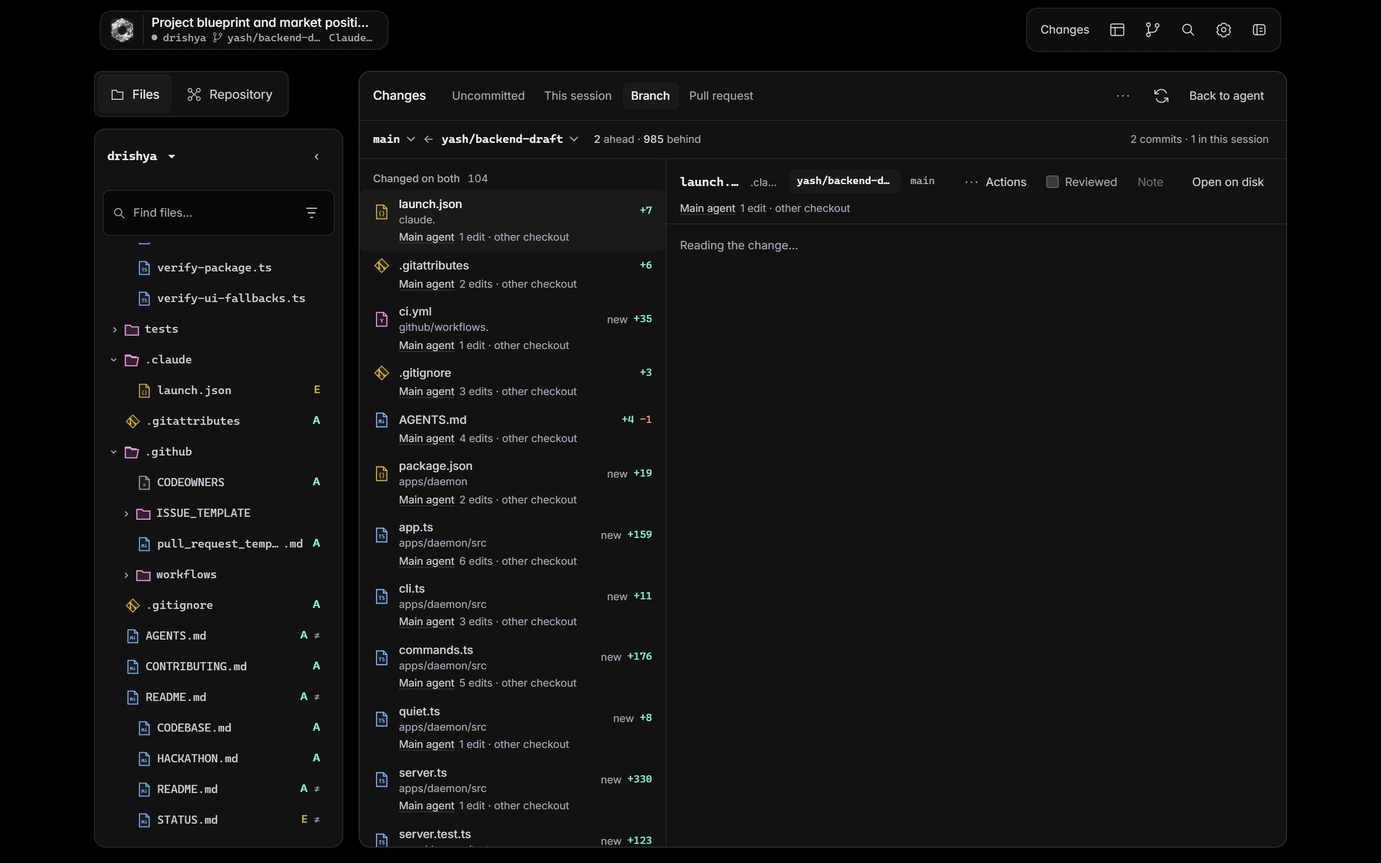
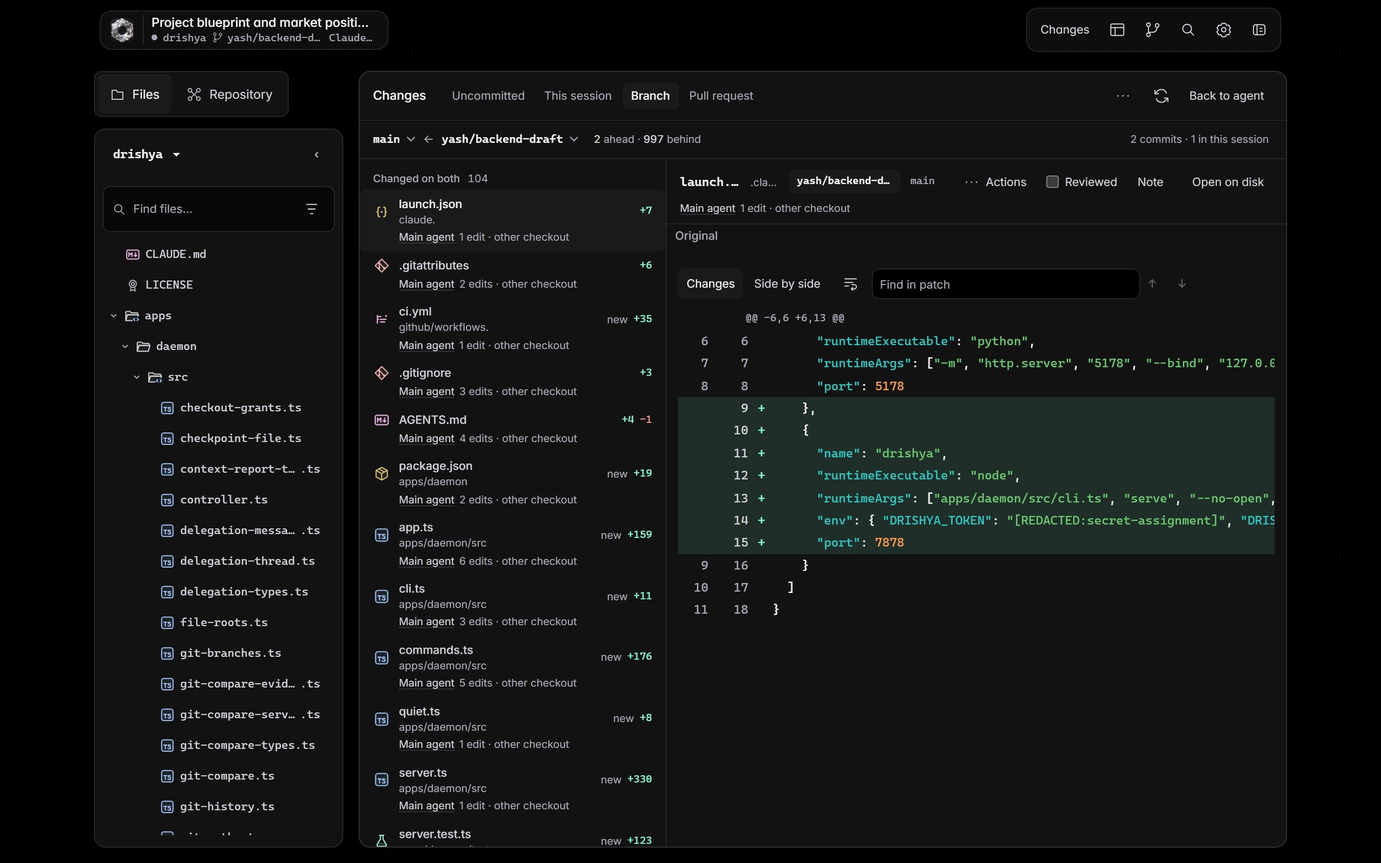
site: real feature sequences on the new UI, readable clicks, steady scroll, azure aurora (SITE-1)
- Footage recaptured on main after FILES-16b, UI-30, UI-31, UI-32b and FILES-17: files opened from the tree into the reader beside the agent's work (three tabs); a file's history before and after choosing an earlier edit (1 of 17, then 8 of 17); Changes with each picker open and its choice loaded (branch, then pull request #421); the Git graph then one branch; the Toolbox stepping through Edit; the prompt rail visible (Toolbox minimized) with a prompt that led to 41 actions.
- The footage script records where each real control was clicked; the site's cursor uses those positions, and a screen a click changes holds long enough to read.
- Scenes follow the scroll exactly (Lenis already smooths it; the extra scrub lag made them trail unevenly); the laptop tour takes 7 screens of scroll instead of 4; feature frames are decoded before the section arrives.
- Azure #4f9cff with cyan #34d6e6: a slow aurora at the top behind the constellation (paused once past the hero, still under reduced motion), replacing the periwinkle that read purple.

diff --git a/scripts/site-footage-real.ts b/scripts/site-footage-real.ts
@@ -1,12 +1,13 @@
 // SITE-1 real footage (Yash, 12 Nov): the feature window shows Drishya on a real Drishya session and this repository's
 // real Git history, captured as full screens. Frames go to .local/site-footage-real only; a builder reviews each frame
 // before any is copied into the site. Nothing is written to the real Drishya home: the store is a temporary folder.
+// Every click prints where it landed (as a fraction of the 1440x900 screen) so the site's cursor can click the same place.
 //   SITE_FOOTAGE_JOURNAL=<Claude Code journal> node scripts/site-footage-real.ts
-import {mkdirSync,mkdtempSync,rmSync} from 'node:fs';
+import {mkdirSync,mkdtempSync,rmSync,writeFileSync} from 'node:fs';
 import {tmpdir} from 'node:os';
 import {join,resolve,sep} from 'node:path';
 import {fileURLToPath} from 'node:url';
-import {chromium,type Page} from '@playwright/test';
+import {chromium,type Locator,type Page} from '@playwright/test';
 import {App} from '../apps/daemon/src/app.ts';
 import {startServer} from '../apps/daemon/src/server.ts';
 
@@ -18,71 +19,107 @@ const app=new App(join(dir,'store'));
 const id=(await app.ingest.importSource('claude-code',journal)).recordingId;
 const server=await startServer({app,port:0,token:'site-footage-real'});
 const browser=await chromium.launch({channel:process.env.DRISHYA_BROWSER_CHANNEL??'msedge'});
-const page:Page=await (await browser.newContext({viewport:{width:1440,height:900},deviceScaleFactor:2,colorScheme:'dark'})).newPage();
+const W=1440,H=900;
+const page:Page=await (await browser.newContext({viewport:{width:W,height:H},deviceScaleFactor:2,colorScheme:'dark'})).newPage();
 await page.route('**/v1/working-locations',r=>r.request().method()==='GET'?r.fulfill({json:{version:1,sessions:[]}}):r.fulfill({json:{saved:true,revisions:{}}}));
-const shots:string[]=[];
+const shots:string[]=[],clicks:Record<string,[number,number]>={};
 const wait=(ms:number)=>page.waitForTimeout(ms);
-async function shot(name:string,settle=700){await page.mouse.move(-10,-10).catch(()=>{});await wait(settle);await page.screenshot({path:join(out,`${name}.jpg`),type:'jpeg',quality:88});shots.push(name);console.log('captured',name);}
-async function shotHover(name:string){await wait(800);await page.screenshot({path:join(out,`${name}.jpg`),type:'jpeg',quality:88});shots.push(name);console.log('captured',name);}
-const visible=(l:ReturnType<Page['locator']>)=>l.isVisible().catch(()=>false);
-async function approve(){for(const name of ['Approve workspace reading','Approve read-only Git','Approve current-file reading']){const b=page.getByRole('button',{name,exact:true}).first();if(await visible(b)){await b.click();await wait(500);}}const e=page.getByText('Enable workspace reading',{exact:true}).first();if(await visible(e)){await e.click();await wait(800);}}
+async function shot(name:string,settle=700){await page.mouse.move(-10,-10).catch(()=>{});await wait(settle);await page.screenshot({path:join(out,`${name}.jpg`),type:'jpeg',quality:90});shots.push(name);console.log('captured',name);}
+async function shotHover(name:string){await wait(800);await page.screenshot({path:join(out,`${name}.jpg`),type:'jpeg',quality:90});shots.push(name);console.log('captured',name);}
+const visible=(l:Locator)=>l.isVisible().catch(()=>false);
+// Click a control and record where it is, for the site's cursor.
+async function click(name:string,l:Locator){const b=await l.boundingBox();if(b)clicks[name]=[+((b.x+b.width/2)/W).toFixed(3),+((b.y+b.height/2)/H).toFixed(3)];await l.click({timeout:8000}).catch(()=>console.log('click failed:',name));}
+async function approve(){for(const name of ['Approve workspace reading','Approve read-only Git','Approve current-file reading']){const b=page.getByRole('button',{name,exact:true}).first();if(await visible(b)){await b.click();await wait(600);}}const e=page.locator('button.workspace-grant').first();if(await visible(e)){await e.click();await wait(1500);for(const name of ['Approve workspace reading','Approve current-file reading']){const b=page.getByRole('button',{name,exact:true}).first();if(await visible(b)){await b.click();await wait(800);}}}}
 async function open(){await page.goto(server.launchUrl);await page.locator('.home').waitFor();await page.goto(`${server.url}/?experience=modern#/r/${id}`);await page.locator('.history').waitFor();await wait(2500);}
 async function goToPrompt(index:number){const tag=await page.addStyleTag({content:'.toolbox-rail,.toolbox-rail *{pointer-events:none!important}'});const t=page.locator('.prompt-rail-tick').nth(index);if(await t.count()){await t.click({force:true}).catch(()=>{});await wait(2200);}await tag.evaluate(el=>el.remove());}
-async function scrollHistory(fraction:number){await page.evaluate(f=>{const h=document.querySelector('.history');if(h)h.scrollTop=(h.scrollHeight-h.clientHeight)*f;},fraction);await wait(1200);}
-// Files the session edited, in tree order, read from the tree's own marks.
-async function editedFiles(){return page.evaluate(()=>[...document.querySelectorAll<HTMLElement>('[data-tree-path]')].filter(r=>!r.hasAttribute('aria-expanded')&&[...r.querySelectorAll('*')].some(n=>n.childElementCount===0&&/^E$/.test((n.textContent??'').trim()))).map(r=>r.dataset.treePath!).slice(0,6));}
+// Wait until a Changes view has finished reading.
+async function loaded(){await page.locator('.compare-note[role=status]').filter({hasText:/Reading/}).first().waitFor({state:'hidden',timeout:30000}).catch(()=>console.log('changes: still reading'));await wait(900);}
+async function graphLoaded(){await page.getByText('Reading local history',{exact:false}).first().waitFor({state:'hidden',timeout:20000}).catch(()=>{});for(let i=0;i<3;i++){const retry=page.getByRole('button',{name:'Retry history'}).first();if(!(await visible(retry)))break;await retry.click();await wait(3000);}await wait(1200);}
+// Files the session edited or added, in tree order, read from the tree's own marks.
+async function editedFiles(){return page.evaluate(()=>[...document.querySelectorAll<HTMLElement>('[data-tree-path]')].filter(r=>!r.hasAttribute('aria-expanded')&&[...r.querySelectorAll('*')].some(n=>n.childElementCount===0&&/^[EA]$/.test((n.textContent??'').trim()))).map(r=>r.dataset.treePath!));}
+const expandTree=()=>page.evaluate(()=>{for(const r of document.querySelectorAll<HTMLElement>('[data-tree-path][aria-expanded="false"]'))r.click();});
 
 try{
-  await open();await approve();
-  await goToPrompt(4);await shot('r-history');
-  // Explorer: expand to the edited files, open one beside the work, then step to an earlier edit, then a second file.
-  await page.evaluate(()=>{for(const r of document.querySelectorAll<HTMLElement>('[data-tree-path][aria-expanded="false"]'))r.click();});await wait(900);
-  const edited=await editedFiles();console.log('edited files in tree:',edited.length);
-  await shot('r-explorer');
-  if(edited[0]){
-    const row=page.locator(`[data-tree-path="${edited[0]}"]`).first();await row.hover();await shotHover('r-explorer-hover');
-    await row.click();await wait(1500);await approve();await shot('r-peek');
-    const edit=page.locator('.file-evidence-reading, [aria-label="File history"]').getByText(/^Edit\b/).first();
-    if(await visible(edit)){await edit.click();await wait(1200);await shot('r-peek-edit');}
-    if(edited[1]){await page.keyboard.press('Escape');await wait(400);const second=page.locator(`[data-tree-path="${edited[1]}"]`).first();if(await visible(second)){await second.click();await wait(1500);await shot('r-peek-2');}}
-    await page.keyboard.press('Escape');await wait(500);
-  }
-  // Workspace with two of the edited files open as tabs.
-  await page.getByRole('button',{name:'Open developer workspace',exact:true}).click().catch(()=>{});await approve();await wait(900);
-  for(const path of edited.slice(0,2)){const find=page.getByRole('textbox',{name:'Find repository files',exact:true});if(await visible(find)){await find.fill(path);await page.locator(`[data-spine-path="${path}"]`).first().click().catch(()=>{});await wait(900);}}
-  await shot('r-workspace');await page.keyboard.press('Escape');await wait(500);
-  // Changes: each view of the same repository.
-  await page.getByRole('button',{name:'Changes',exact:true}).first().click().catch(()=>{});await approve();await wait(1200);
-  for(const [tab,name] of [['This session','r-changes-session'],['Branch','r-changes-branch'],['Pull request','r-changes-pr']] as const){
-    const b=page.getByRole('button',{name:tab,exact:true}).first();if(!(await visible(b)))continue;await b.click();await wait(1800);
-    if(tab==='Pull request'){const enable=page.getByRole('button',{name:/GitHub|Enable|Allow/i}).first();if(await visible(enable)){await enable.click();await wait(3000);}const picker=page.getByText('Choose a pull request',{exact:false}).first();if(await visible(picker)){await picker.click();await wait(1500);const option=page.getByRole('option').first().or(page.locator('[role=menu] button, [role=listbox] [role=option]').first());if(await visible(option)){await option.click();await wait(4000);}else console.log('pull request: no options listed');}}
-    await shot(name,600);
-  }
-  await page.keyboard.press('Escape');await wait(500);
-  // Git graph: the whole history, then one branch chosen.
-  await page.getByRole('button',{name:'Git',exact:true}).first().click().catch(()=>{});await approve();
-  await page.getByText('Reading local history',{exact:false}).first().waitFor({state:'hidden',timeout:20000}).catch(()=>{});
-  for(let i=0;i<3;i++){const retry=page.getByRole('button',{name:'Retry history'}).first();if(!(await visible(retry)))break;await retry.click();await wait(3000);}
-  await wait(1200);await shot('r-graph');
-  // The branch picker in the graph's own header: read one agent branch instead of all local history.
-  const pick=page.getByRole('combobox',{name:'Read local Git branch'}).first();let picked=false;
-  if(await visible(pick)){const labels=await pick.locator('option').allTextContents();console.log('graph branches:',labels.length);
-    const want=labels.find(l=>/^claude\/site-1/.test(l))??labels.find(l=>/^(gemini|codex|claude)\//.test(l));
-    if(want){await pick.selectOption({label:want});picked=true;}}
-  if(picked){await page.getByText('Reading local history',{exact:false}).first().waitFor({state:'hidden',timeout:20000}).catch(()=>{});for(let i=0;i<3;i++){const retry=page.getByRole('button',{name:'Retry history'}).first();if(!(await visible(retry)))break;await retry.click();await wait(3000);}await wait(1500);await shot('r-graph-branch');}else console.log('graph: no branch row');
-  await page.keyboard.press('Escape');await wait(600);
-  // Toolbox: one tool chosen, then the next use of it.
-  await open();await goToPrompt(4);
-  const tool=page.getByRole('button',{name:/^Edit\b/}).last();
-  if(await visible(tool)){await tool.click();await wait(1500);await shot('r-tool');const next=page.getByRole('button',{name:/^Next/}).first();if(await visible(next)){await next.click();await wait(1500);await shot('r-tool-next');}await page.keyboard.press('Escape');await wait(500);}
-  // Prompt rail: hover a later prompt.
+  await open();await approve();await wait(800);await approve();
   const ticks=page.locator('.prompt-rail-tick');const n=await ticks.count();console.log('prompt ticks:',n);
-  if(n){await page.addStyleTag({content:'.toolbox-rail,.toolbox-rail *{pointer-events:none!important}'});for(const [k,i] of [['a',2],['b',5],['c',11]] as const){const t=ticks.nth(Math.min(n-1,i));const box=await t.boundingBox();if(box){await page.mouse.move(box.x+box.width/2,box.y+box.height/2,{steps:6});await shotHover(`r-prompt-${k}`);await page.mouse.move(10,10);await wait(500);}}}
-  // Composer: a follow-up typed, not sent.
+  await goToPrompt(Math.min(Number(process.env.SITE_FOOTAGE_PROMPT??1),Math.max(0,n-1)));
+  // 1. Files: the tree beside the agent's work, with files opened from it in the reader beside the history (tabs).
+  // Files on disk in the session's own checkout open in the reader beside the history, one tab each. The tree renders
+  // only the rows near the view, so each folder is opened in turn and each file scrolled to before it is clicked.
+  const find=page.getByPlaceholder(/Find files/i).first();
+  async function expand(path:string){const row=page.locator(`[data-tree-path="${path}"]`).first();if(await visible(row)){await row.scrollIntoViewIfNeeded();if(await row.getAttribute('aria-expanded')==='false'){await row.click();await wait(2000);}}}
+  const opened:string[]=[];
+  for(const p of ['apps','apps/daemon','apps/daemon/src'])await expand(p);
+  const rendered=await page.evaluate(()=>[...document.querySelectorAll<HTMLElement>('[data-tree-path^="apps/daemon/src/"]')].map(r=>r.dataset.treePath!).filter(x=>x.endsWith('.ts')));
+  const wanted=[...['controller.ts','delegation-thread.ts','checkout-grants.ts'].map(n=>`apps/daemon/src/${n}`).filter(x=>rendered.includes(x)),...rendered].filter((x,i,a)=>a.indexOf(x)===i).slice(0,3);
+  for(const want of wanted){
+    if(await visible(page.locator('dialog.file-workspace'))){await page.keyboard.press('Escape');await wait(500);}
+    const row=page.locator(`[data-tree-path="${want}"]`).first();
+    if(await visible(row)){await row.scrollIntoViewIfNeeded();if(opened.length<2){const b=await row.boundingBox();if(b)clicks[`explorer-open-${opened.length}`]=[+((b.x+b.width/2)/W).toFixed(3),+((b.y+b.height/2)/H).toFixed(3)];await row.dblclick({timeout:8000}).catch(()=>console.log('dblclick failed'));}else await click(`explorer-open-${opened.length}`,row);opened.push(want);await wait(1600);await approve();}
+  }
+  console.log('files opened:',opened.length);
+  await shot('r-explorer');
+  // 2. A file's history: the file the agent edited most, then another edit chosen and its change shown.
+  if(await visible(find)){await find.fill('STATUS.md');await wait(1000);}
+  // Open each STATUS.md's history, keep the one with the most actions, and reopen it.
+  async function openHistory(path:string){const row=page.locator(`[data-tree-path="${path}"]`).first();if(!(await visible(row)))return 0;await row.click();await wait(1500);
+    const work=page.getByRole('button',{name:'Agent work on this file'}).first();if(await visible(work)){await work.click();await wait(1500);}
+    const text=await page.locator('dialog.file-workspace').first().innerText().catch(()=>'');return (text.match(/\n(Edit|Write|Read)\n/g)??[]).length;}
+  {const paths=await page.evaluate(()=>[...document.querySelectorAll<HTMLElement>('[data-tree-path$="STATUS.md"]')].map(r=>r.dataset.treePath!));
+   let best='',most=0;for(const path of paths){const n=await openHistory(path);if(n>most){most=n;best=path;}await page.keyboard.press('Escape');await wait(600);}
+   console.log('history actions on the chosen file:',most);if(best)await openHistory(best);}
+  if(await visible(page.locator('dialog.file-workspace'))){
+    await shot('r-history-a');
+    const rows=page.locator('dialog.file-workspace').first().getByText('Edit',{exact:true});
+    const count=await rows.count();console.log('history edit rows:',count);
+    if(count>3){await click('history-step',rows.nth(Math.min(count-1,6)));await wait(1500);await shot('r-history-b');}
+    await page.keyboard.press('Escape');await wait(600);
+  } else console.log('history: no file history opened');
+  if(await visible(find)){await find.fill('');await wait(600);}
+  // 3. Workspace with two of the edited files open as tabs.
+  await page.getByRole('button',{name:'Open developer workspace',exact:true}).click().catch(()=>{});await approve();await wait(900);
+  for(const path of opened.slice(0,2)){const search=page.getByRole('textbox',{name:'Find repository files',exact:true});if(await visible(search)){await search.fill(path);await page.locator(`[data-spine-path$="${path}"]`).first().click().catch(()=>{});await wait(900);}}
+  await shot('r-workspace');await page.keyboard.press('Escape');await wait(600);
+  // 4. Changes: this session; the branch against main, its picker, another branch chosen; a pull request chosen.
+  await page.getByRole('button',{name:'Changes',exact:true}).first().click().catch(()=>{});await approve();await wait(1200);
+  const tab=(name:string)=>page.getByRole('button',{name,exact:true}).first();
+  if(await visible(tab('This session'))){await click('changes-session',tab('This session'));await loaded();await shot('r-changes-session');}
+  if(await visible(tab('Branch'))){
+    await click('changes-branch',tab('Branch'));await loaded();await shot('r-changes-branch');
+    const head=page.locator('.compare-side').nth(1);
+    if(await visible(head)){await click('changes-branch-picker',head);await wait(900);await shotHover('r-changes-branch-pick');
+      const option=page.getByRole('listbox').getByRole('button').filter({hasText:/^gemini\/files-17|^gemini\/ui-31|^claude\/site-1/}).first();
+      if(await visible(option)){await click('changes-branch-choose',option);await loaded();await shot('r-changes-branch-picked');}else{console.log('branch: no option');await page.keyboard.press('Escape');}}
+  }
+  if(await visible(tab('Pull request'))){
+    await click('changes-pr',tab('Pull request'));await wait(1500);
+    const allow=page.getByRole('button',{name:'Allow GitHub lookups'}).first();if(await visible(allow)){await allow.click();await wait(4000);}
+    const picker=page.locator('.compare-side').filter({hasText:/Choose a pull request|^#\d+/}).first();
+    if(await visible(picker)){await click('changes-pr-picker',picker);await wait(900);await shotHover('r-changes-pr-pick');
+      const option=page.getByRole('listbox',{name:'Open pull requests'}).getByRole('button').filter({hasText:/^#421\b/}).first();
+      const chosen=await visible(option)?option:page.getByRole('listbox',{name:'Open pull requests'}).getByRole('button').first();
+      if(await visible(chosen)){await click('changes-pr-choose',chosen);await loaded();await shot('r-changes-pr');}else console.log('pull request: no options listed');}
+  }
+  await page.keyboard.press('Escape');await wait(600);
+  // 5. Git graph: the whole history, then one branch chosen from the graph's own list.
+  await page.getByRole('button',{name:'Git',exact:true}).first().click().catch(()=>{});await approve();await graphLoaded();await shot('r-graph');
+  const ref=page.locator('.atlas-ref').filter({hasText:/^\W*claude\/site-1/}).first();
+  if(await visible(ref)){await click('graph-branch',ref);await graphLoaded();await shot('r-graph-branch');}else console.log('graph: no branch row');
+  await page.keyboard.press('Escape');await wait(600);
+  // 6. Toolbox: one tool chosen, then the next use of it.
+  await open();await goToPrompt(Math.min(Number(process.env.SITE_FOOTAGE_PROMPT??1),Math.max(0,n-1)));
+  const tool=page.getByRole('button',{name:/^Edit\b/}).last();
+  if(await visible(tool)){await click('tool',tool);await wait(1500);await shot('r-tool');const next=page.getByRole('button',{name:/^Next/}).first();if(await visible(next)){await click('tool-next',next);await wait(1500);await shot('r-tool-next');}await page.keyboard.press('Escape');await wait(500);}
+  // 7. Prompt rail: hover three prompts to choose one that reads well (the Toolbox's focus cleared first).
+  {const clear=page.getByText('Clear focus',{exact:false}).first();if(await visible(clear)){await clear.click();await wait(700);}const min=page.getByRole('button',{name:'Minimize toolbox'}).first();if(await visible(min)){await min.click();await wait(900);}}
+  if(n){const tag=await page.addStyleTag({content:'.toolbox-rail,.toolbox-rail *{pointer-events:none!important}'});for(const [k,f] of [['a',.12],['b',.3],['c',.45],['d',.6],['e',.75],['f',.9]] as const){const t=ticks.nth(Math.min(n-1,Math.floor(n*f)));const box=await t.boundingBox();if(box){clicks[`prompt-${k}`]=[+((box.x+box.width/2)/W).toFixed(3),+((box.y+box.height/2)/H).toFixed(3)];await page.mouse.move(box.x+box.width/2,box.y+box.height/2,{steps:6});await shotHover(`r-prompt-${k}`);await page.mouse.move(10,10);await wait(500);}}await tag.evaluate(el=>el.remove());}
+  // 8. Composer: a follow-up typed, not sent.
   const ask=page.getByText('Ask your agent',{exact:false}).first();
-  if(await visible(ask)){await ask.click();await wait(900);const box=page.getByRole('textbox',{name:'Prompt for selected harness session'}).first();if(await visible(box))await box.fill('Add a browser spec for the new picker and run it at 600 and 1440.');await wait(500);await shot('r-composer',200);}
+  if(await visible(ask)){await click('composer',ask);await wait(900);const box=page.getByRole('textbox',{name:'Prompt for selected harness session'}).first();if(await visible(box))await box.fill('Add a browser spec for the hover cards and run it at 600 and 1440.');await wait(500);await shot('r-composer',200);}
 }finally{
+  writeFileSync(join(out,'clicks.json'),JSON.stringify(clicks,null,1));
   await browser.close();await server.close();await app.close();
   if(!resolve(dir).startsWith(resolve(tmpdir())+sep))throw Error('Unsafe temporary folder');rmSync(dir,{recursive:true,force:true});
 }
 console.log(`Real footage: ${shots.length} frames in ${out} (review before publishing).`);
+console.log(JSON.stringify(clicks));

diff --git a/apps/site/src/main.ts b/apps/site/src/main.ts
@@ -114,11 +114,11 @@ function animate() {
 
     const words = new SplitText('[data-words]', { type: 'words' });
     gsap.set(words.words, { opacity: 0.14 });
-    gsap.timeline({ scrollTrigger: { trigger: '.why', start: 'top top', end: '+=140%', pin: '.why-pin', scrub: 0.6 } })
+    gsap.timeline({ scrollTrigger: { trigger: '.why', start: 'top top', end: '+=140%', pin: '.why-pin', scrub: true } })
       .to(words.words, { opacity: 1, stagger: 0.05, ease: 'none' }, 0)
       .to('[data-why-lines]', { yPercent: -55, ease: 'none', duration: words.words.length * 0.05 }, 0);
     gsap.to('.backdrop .hero-map, .backdrop .hero-labels', { opacity: 0.38, ease: 'none', scrollTrigger: { trigger: '.why', start: 'top bottom', end: 'top top', scrub: true } });
-    ScrollTrigger.create({ trigger: '.why', start: 'bottom top', onEnter: () => heroMap.pause(), onLeaveBack: () => heroMap.resume() });
+    ScrollTrigger.create({ trigger: '.why', start: 'bottom top', onEnter: () => { heroMap.pause(); $('.aurora').classList.add('rest'); }, onLeaveBack: () => { heroMap.resume(); $('.aurora').classList.remove('rest'); } });
     gsap.to('.glow', { opacity: 0.45, ease: 'none', scrollTrigger: { trigger: '.why', start: 'top bottom', end: 'top top', scrub: true } });
 
     for (const h of $$('[data-split]').filter(h => h.id !== 'hero-title')) {
@@ -136,26 +136,29 @@ function animate() {
   // Frames are real Drishya on a real Drishya session (scripts/site-footage-real.ts, reviewed before publishing).
   type Frame = { img: string; click?: [number, number]; zoom?: [number, number, number, number] };
   const FEATURES: Frame[][] = [
-    [{ img: 'explorer' }],
-    [{ img: 'file-history', zoom: [0, .12, .5, .6], click: [.04, .52] }, { img: 'file-history' }],
+    // Click positions are where the real control was on screen, measured by the footage script.
+    [{ img: 'explorer', click: [.155, .472] }],
+    [{ img: 'history-a' }, { img: 'history-b', click: [.032, .587] }],
     [{ img: 'workspace' }],
-    [{ img: 'changes-session', click: [.418, .108] }, { img: 'changes-branch', click: [.471, .108] }, { img: 'changes-pr', click: [.524, .108] }],
-    [{ img: 'git-graph' }, { img: 'git-graph-branch', click: [.148, .456] }],
-    [{ img: 'tool', zoom: [.66, .3, .34, .42], click: [.875, .464] }, { img: 'tool-next' }],
-    [{ img: 'prompt', click: [.838, .8] }],
-    [{ img: 'composer', click: [.683, .9] }],
+    [{ img: 'changes-session', click: [.419, .111] }, { img: 'changes-branch', click: [.472, .111] }, { img: 'changes-branch-pick', click: [.369, .161] },
+     { img: 'changes-branch-picked', click: [.446, .31] }, { img: 'changes-pr-pick', click: [.522, .111] }, { img: 'changes-pr', click: [.397, .201] }],
+    [{ img: 'git-graph' }, { img: 'git-graph-branch', click: [.149, .413] }],
+    [{ img: 'tool', click: [.869, .754] }, { img: 'tool-next', click: [.882, .471] }],
+    [{ img: 'prompt', zoom: [.6, .5, .4, .5], click: [.936, .678] }],
+    [{ img: 'composer', click: [.5, .957] }],
   ];
   function featureScenes() {
     const camera = $('[data-feat-camera]'), win = $('[data-feat-window]'), steps = $$('.feat-steps li');
     const cursorEl = $('.feat-cursor', win), ripple = $('.feat-ripple', win);
     const names = [...new Set(FEATURES.flat().map(f => f.img))];
-    camera.innerHTML = names.map(n => `<img src="footage/${n}.jpg" alt="" decoding="async" loading="lazy" data-frame-name="${n}" />`).join('');
+    camera.innerHTML = names.map(n => `<img src="footage/${n}.jpg" alt="" decoding="async" data-frame-name="${n}" />`).join('');
+    new IntersectionObserver((entries, io) => { if (entries.some(e => e.isIntersecting)) { io.disconnect(); for (const im of camera.querySelectorAll('img')) void im.decode().catch(() => {}); } }, { rootMargin: '200% 0px' }).observe(win);
     const img = (n: string) => $(`[data-frame-name="${n}"]`, camera);
     const W = () => win.clientWidth, H = () => win.clientHeight;
     const zoomTo = (z?: [number, number, number, number]) => { if (!z) return { scale: 1, x: 0, y: 0 }; const [zx, zy, zw, zh] = z, sc = 0.94 / Math.max(zw, zh); return { scale: sc, x: () => (0.5 - (zx + zw / 2) * sc) * W(), y: () => (0.5 - (zy + zh / 2) * sc) * H() }; };
     gsap.set(steps, { autoAlpha: 0, y: 24 }); gsap.set(steps[0]!, { autoAlpha: 1, y: 0 });
     gsap.set(img(FEATURES[0]![0]!.img), { opacity: 1 });
-    const tl = gsap.timeline({ defaults: { ease: 'power3.inOut' }, scrollTrigger: { trigger: '.features', start: 'top top', end: () => `+=${innerHeight * FEATURES.length * 0.75}`, pin: '.features-pin', scrub: 0.5, invalidateOnRefresh: true } });
+    const tl = gsap.timeline({ defaults: { ease: 'power3.inOut' }, scrollTrigger: { trigger: '.features', start: 'top top', end: () => `+=${innerHeight * FEATURES.flat().length * 0.55}`, pin: '.features-pin', scrub: true, invalidateOnRefresh: true } });
     let shown = FEATURES[0]![0]!.img, t = 0;
     FEATURES.forEach((frames, i) => {
       if (i > 0) { tl.to(steps[i - 1]!, { autoAlpha: 0, y: -24, duration: 0.3 }, t).to(steps[i]!, { autoAlpha: 1, y: 0, duration: 0.4 }, t + 0.2); }
@@ -170,7 +173,7 @@ function animate() {
           const px = () => (typeof z.x === 'function' ? z.x() : 0) + f.click![0] * W() * sc, py = () => (typeof z.y === 'function' ? z.y() : 0) + f.click![1] * H() * sc;
           tl.fromTo(cursorEl, { left: () => W() * 0.82, top: () => H() * 0.9, opacity: 0 }, { left: px, top: py, opacity: 1, duration: 0.4, ease: 'power2.out' }, t + 0.5);
           tl.fromTo(ripple, { left: px, top: py, scale: 0.4, opacity: 0.9 }, { scale: 1.6, opacity: 0, duration: 0.3, ease: 'power1.out' }, t + 0.92);
-          t += 1.25;
+          t += swapAt > t ? 2.1 : 1.25; // a screen the click changed holds long enough to read
         } else t += 0.9;
       });
       tl.to(camera, { scale: 1, x: 0, y: 0, duration: 0.45 }, t); t += 0.5;
@@ -185,7 +188,7 @@ function animate() {
     gsap.set(lines, { opacity: 0 });
     gsap.set(rows, { opacity: 0, y: 8 });
     gsap.set(steps, { autoAlpha: 0, y: 24 }); gsap.set(steps[0]!, { autoAlpha: 1, y: 0 });
-    const tl = gsap.timeline({ defaults: { ease: 'power2.inOut' }, scrollTrigger: { trigger: '.tour', start: 'top top', end: () => `+=${innerHeight * 4}`, pin: '.tour-pin', scrub: 0.5, invalidateOnRefresh: true } });
+    const tl = gsap.timeline({ defaults: { ease: 'power2.inOut' }, scrollTrigger: { trigger: '.tour', start: 'top top', end: () => `+=${innerHeight * 7}`, pin: '.tour-pin', scrub: true, invalidateOnRefresh: true } });
     const show = (i: number, t: number) => tl.to(steps[i - 1]!, { autoAlpha: 0, y: -24, duration: 0.3 }, t).to(steps[i]!, { autoAlpha: 1, y: 0, duration: 0.4 }, t + 0.2);
     const replay = (from: number, to: number, t: number, duration: number) => tl.fromTo({ s: from }, { s: from }, { s: to, duration, ease: 'none', onUpdate() { const n = Math.round(this.targets()[0].s); if (n !== wantedStep) seek(n); } }, t);
 

diff --git a/apps/site/src/site.css b/apps/site/src/site.css
@@ -6,7 +6,7 @@
   --bg: #0a0b0d; --s1: #101215; --s2: #15181c; --s3: #1b1f24;
   --line: rgba(241, 238, 228, .08); --line-2: rgba(241, 238, 228, .14);
   --t1: #eceae4; --t2: #a3a7ad; --t3: #6d737a; --ivory: #f1eee4;
-  --read: #7aa8ff; --edit: #e8b04a; --fail: #ff6a5c; --pass: #46c98b; --tool: #7fd0dd; --claude: #e5946a; --codex: #9fb8ff;
+  --accent: #4f9cff; --accent-2: #34d6e6; --read: #6aa9ff; --edit: #e8b04a; --fail: #ff6a5c; --pass: #46c98b; --tool: #7fd0dd; --claude: #e5946a; --codex: #8fbcff;
   --sans: Inter, ui-sans-serif, system-ui, sans-serif; --mono: 'JetBrains Mono', ui-monospace, monospace;
   --wrap: 1200px; --gutter: clamp(20px, 4vw, 48px); --r: 10px; --r-lg: 16px;
   --ease: cubic-bezier(.16, 1, .3, 1);
@@ -18,7 +18,7 @@ body { margin: 0; overflow-x: hidden; }
 h1, h2, h3, p { margin: 0; }
 a { color: inherit; text-decoration: none; }
 code, pre { font-family: var(--mono); }
-::selection { background: rgba(122, 168, 255, .3); }
+::selection { background: rgba(79, 156, 255, .32); }
 :focus-visible { outline: 1.5px solid var(--t2); outline-offset: 3px; border-radius: 6px; }
 .wrap { width: min(var(--wrap), 100% - 2 * var(--gutter)); margin-inline: auto; }
 .skip { position: absolute; left: -999px; }
@@ -33,7 +33,7 @@ code, pre { font-family: var(--mono); }
 .button.ghost:hover { border-color: rgba(241, 238, 228, .32); transform: translateY(-1px); }
 .button:active { transform: translateY(0) scale(.98); }
 .chip { display: inline-flex; align-items: center; height: 20px; padding: 0 7px; border-radius: 5px; font: 500 11px/1 var(--mono); letter-spacing: .02em; color: var(--t2); background: rgba(241, 238, 228, .06); flex: none; }
-.chip.read { color: var(--read); background: rgba(122, 168, 255, .1); }
+.chip.read { color: var(--read); background: rgba(79, 156, 255, .1); }
 .chip.edit { color: var(--edit); background: rgba(232, 176, 74, .1); }
 .chip.fail { color: var(--fail); background: rgba(255, 106, 92, .1); }
 .chip.pass, .chip.test, .chip.shell { color: var(--pass); background: rgba(70, 201, 139, .1); }
@@ -57,7 +57,16 @@ b.pass, .status.pass { color: var(--pass); font-weight: 500; }
 .hero { position: relative; min-height: 100svh; display: grid; place-items: center; overflow: hidden; padding: 96px 0 56px; }
 
 .backdrop { position: fixed; inset: 0; z-index: 0; pointer-events: none; }
-.glow { position: absolute; left: 50%; top: -38vh; width: 150vw; height: 105vh; transform: translateX(-50%); background: radial-gradient(closest-side, rgba(56, 104, 214, .34), rgba(38, 74, 170, .16) 45%, rgba(10, 11, 13, 0) 100%); }
+.glow { position: absolute; left: 50%; top: -42vh; width: 160vw; height: 112vh; transform: translateX(-50%); background: radial-gradient(closest-side, rgba(47, 123, 255, .30), rgba(30, 80, 200, .12) 48%, rgba(10, 11, 13, 0) 100%); }
+/* Aurora: azure and cyan light drifting slowly behind the constellation, only at the top of the page. */
+.aurora { position: absolute; inset: -20vh -10vw auto; height: 95vh; filter: blur(70px); opacity: .9; -webkit-mask-image: linear-gradient(#000 40%, transparent); mask-image: linear-gradient(#000 40%, transparent); }
+.aurora i { position: absolute; border-radius: 50%; mix-blend-mode: screen; animation: drift 38s ease-in-out infinite alternate; }
+.aurora i:nth-child(1) { left: 18%; top: 4%; width: 46vw; height: 34vh; background: radial-gradient(closest-side, rgba(47, 123, 255, .55), transparent); }
+.aurora i:nth-child(2) { left: 46%; top: 0; width: 40vw; height: 30vh; background: radial-gradient(closest-side, rgba(52, 214, 230, .32), transparent); animation-duration: 46s; animation-delay: -12s; }
+.aurora i:nth-child(3) { left: 30%; top: 16%; width: 52vw; height: 28vh; background: radial-gradient(closest-side, rgba(40, 70, 190, .45), transparent); animation-duration: 54s; animation-delay: -30s; }
+@keyframes drift { 0% { transform: translate3d(-6vw, -2vh, 0) scale(1); } 50% { transform: translate3d(4vw, 3vh, 0) scale(1.12); } 100% { transform: translate3d(8vw, -1vh, 0) scale(.94); } }
+.aurora.rest i, .aurora.rest { animation-play-state: paused; }
+@media (prefers-reduced-motion: reduce) { .aurora i { animation: none; } }
 .hero-map, .hero-labels { -webkit-mask-image: radial-gradient(ellipse 30% 34% at 50% 52%, transparent 35%, #000 92%); mask-image: radial-gradient(ellipse 30% 34% at 50% 52%, transparent 35%, #000 92%); }
 .hero-map { position: absolute; inset: 0; width: 100%; height: 100%; }
 main, .footer { position: relative; z-index: 1; }
@@ -176,13 +185,13 @@ main, .footer { position: relative; z-index: 1; }
 .feat-steps h3 { font-size: clamp(26px, 2.6vw, 38px); line-height: 1.08; letter-spacing: -.03em; font-weight: 600; }
 .feat-steps p { margin-top: 16px; color: var(--t2); font-size: 17px; }
 .feat-stage { display: grid; place-items: center; }
-.feat-window { position: relative; overflow: hidden; border-radius: 14px; background: #000; border: 1px solid var(--line-2); box-shadow: 0 40px 110px rgba(0, 0, 0, .55), 0 0 0 1px rgba(56, 104, 214, .08); }
+.feat-window { position: relative; overflow: hidden; border-radius: 14px; background: #000; border: 1px solid var(--line-2); box-shadow: 0 40px 110px rgba(0, 0, 0, .55), 0 0 0 1px rgba(79, 156, 255, .10), 0 0 80px rgba(47, 123, 255, .06); }
 .feat-window { width: 100%; aspect-ratio: 16 / 10; }
 .feat-camera { position: absolute; inset: 0; transform-origin: 0 0; will-change: transform; }
 .feat-camera img { position: absolute; inset: 0; width: 100%; height: 100%; opacity: 0; }
 .feat-cursor { position: absolute; left: 0; top: 0; width: 24px; height: 24px; opacity: 0; z-index: 3; filter: drop-shadow(0 2px 4px rgba(0, 0, 0, .7)); }
 .feat-cursor svg { width: 100%; height: 100%; fill: #fff; stroke: #000; stroke-width: 1.3; }
-.feat-ripple { position: absolute; width: 34px; height: 34px; margin: -17px 0 0 -17px; border-radius: 50%; border: 2px solid rgba(122, 168, 255, .9); opacity: 0; z-index: 2; pointer-events: none; }
+.feat-ripple { position: absolute; width: 34px; height: 34px; margin: -17px 0 0 -17px; border-radius: 50%; border: 2px solid rgba(79, 156, 255, .95); opacity: 0; z-index: 2; pointer-events: none; }
 @media (max-width: 899px) { .features-grid { grid-template-columns: 1fr; } .feat-stage { height: 52svh; } }
 
 

diff --git a/apps/site/index.html b/apps/site/index.html
@@ -34,7 +34,7 @@
     </div>
   </header>
 
-  <div class="backdrop" aria-hidden="true"><div class="glow"></div><canvas class="hero-map" data-map="hero"></canvas><div class="hero-labels" data-map-labels="hero"></div></div>
+  <div class="backdrop" aria-hidden="true"><div class="glow"></div><div class="aurora" aria-hidden="true"><i></i><i></i><i></i></div><canvas class="hero-map" data-map="hero"></canvas><div class="hero-labels" data-map-labels="hero"></div></div>
   <main>
     <section id="top" class="hero" aria-labelledby="hero-title">
       <div class="wrap hero-inner">
@@ -92,10 +92,10 @@
       <div class="features-pin">
         <div class="wrap features-grid">
           <ol class="feat-steps">
-            <li><span class="step-tag">Files</span><h3>Your files beside the agent's work</h3><p>The explorer stays open beside the session, with every file the agent added or edited marked where it lives.</p></li>
-            <li><span class="step-tag">Explorer</span><h3>Every action on a file, and each earlier edit</h3><p>Open a file to see each read and edit on it, step to an earlier change, and see the test runs that followed it.</p></li>
+            <li><span class="step-tag">Files</span><h3>Your files beside the agent's work</h3><p>Open files from your tree into a reader beside the session, one tab each, while the agent's work stays in view. Files the agent added or edited are marked.</p></li>
+            <li><span class="step-tag">File history</span><h3>Every action on a file, and each earlier edit</h3><p>Every read and edit the agent made to a file. Choose an earlier edit to read exactly that change, and the test runs that followed it.</p></li>
             <li><span class="step-tag">Workspace</span><h3>The current code, in a real editor</h3><p>Open any file in Workspace with your tree and tabs, and edit it a step away from the agent's work.</p></li>
-            <li><span class="step-tag">Changes</span><h3>This session, a branch, or a pull request</h3><p>Switch between what this session changed, a branch against main, and an open pull request. Each file names the agent that edited it.</p></li>
+            <li><span class="step-tag">Changes</span><h3>This session, a branch, or a pull request</h3><p>What this session changed, any branch against main, or an open pull request, each chosen from a list. Every file names the agent that edited it.</p></li>
             <li><span class="step-tag">Git graph</span><h3>Every branch, and where the agents' work landed</h3><p>Every local branch and commit as a graph, read-only, beside the session. Choose one branch to read only its own commits.</p></li>
             <li><span class="step-tag">Toolbox</span><h3>Step through every use of one tool</h3><p>Pick a tool and step through each time it was used. The rest of the session dims around it.</p></li>
             <li><span class="step-tag">Prompts</span><h3>Every prompt, and what it led to</h3><p>The prompt rail keeps each prompt. Hover one to see what it asked, how many actions followed and what failed, then jump there.</p></li>

diff --git a/apps/site/src/map.ts b/apps/site/src/map.ts
@@ -3,7 +3,7 @@
 // Text never goes on the canvas: lit files get DOM labels positioned each frame.
 
 export type Tone = 'read' | 'search' | 'edit' | 'fail' | 'pass' | 'focus';
-export const TONES: Record<Tone, string> = { read: '#7aa8ff', search: '#a7adb5', edit: '#e8b04a', fail: '#ff6a5c', pass: '#46c98b', focus: '#f1eee4' };
+export const TONES: Record<Tone, string> = { read: '#6aa9ff', search: '#a7adb5', edit: '#e8b04a', fail: '#ff6a5c', pass: '#46c98b', focus: '#f1eee4' };
 
 interface Graph { nodes: { path: string; dir: string }[]; edges: { from: string; to: string }[] }
 interface Point { id: string; x: number; y: number; z: number; hub: boolean; parent?: string }
